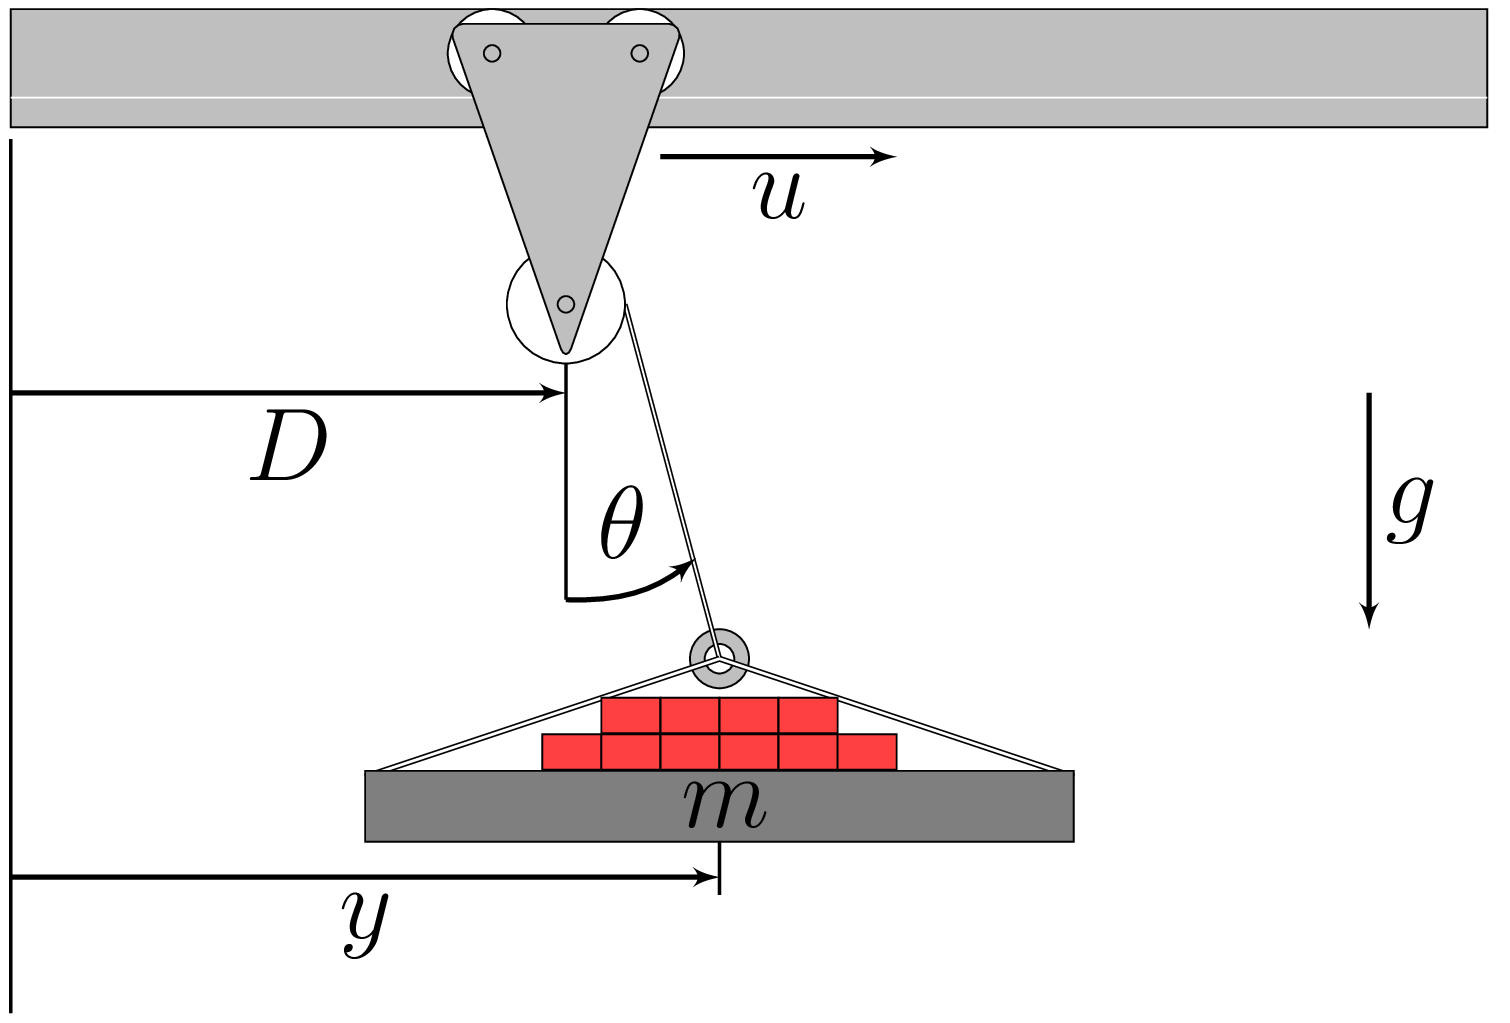
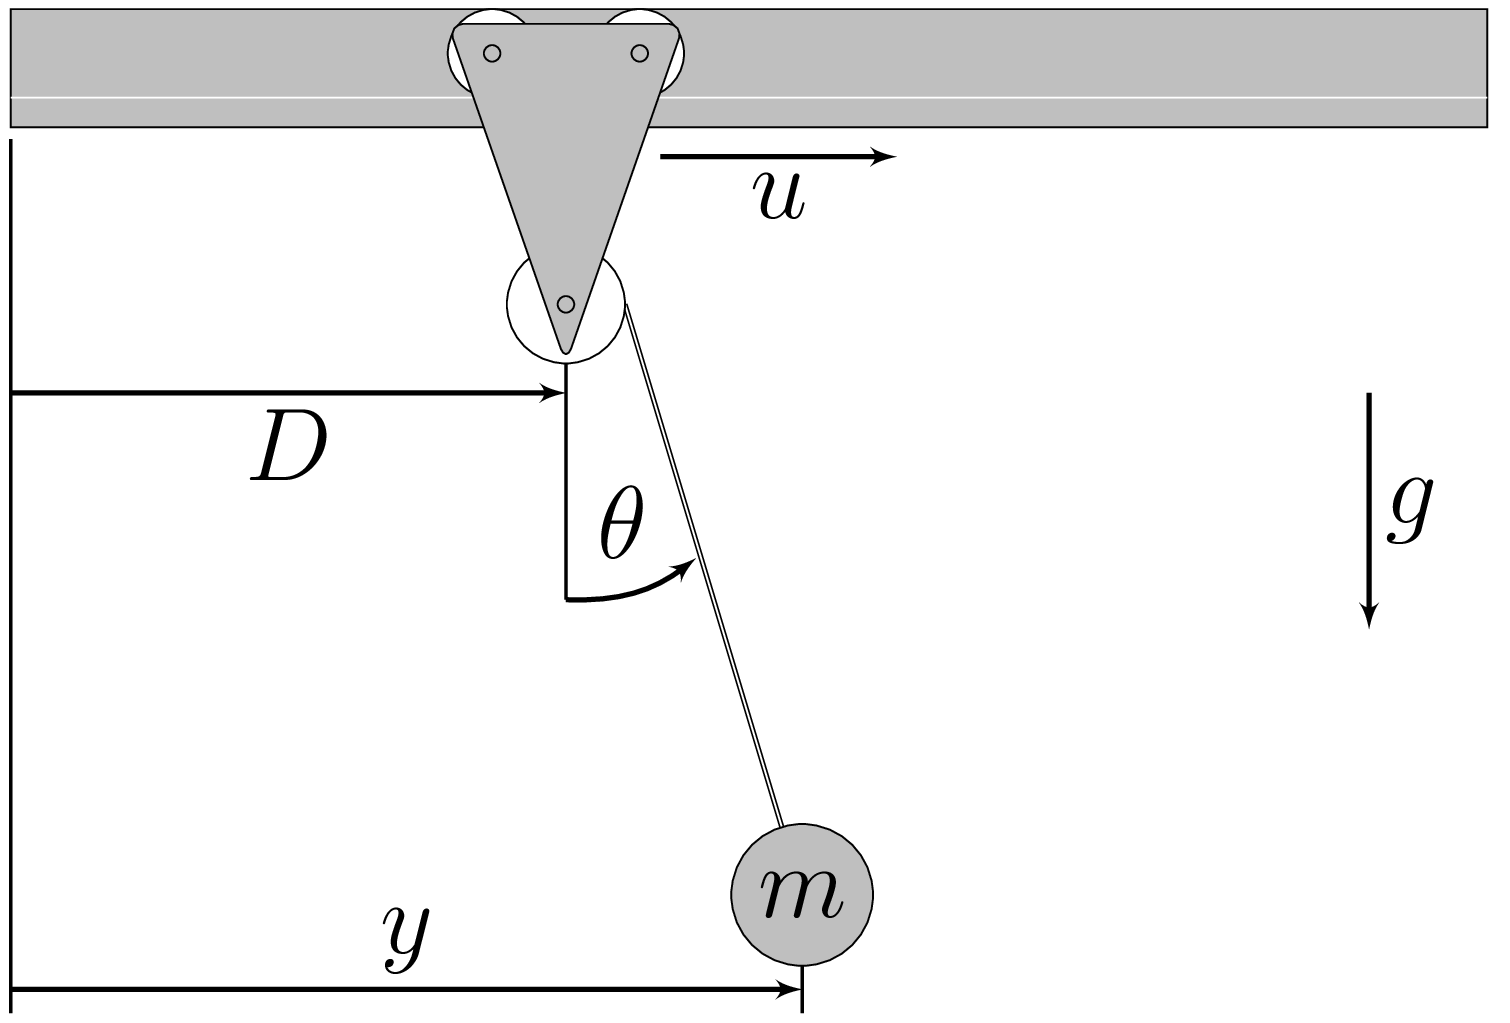
Add magnetic ball image and first implementation

Changed region(s): [[0.0, 0.5758, 0.7159, 0.9697], [0.4358, 0.4242, 0.4669, 0.5758], [0.4046, 0.303, 0.4358, 0.3939]]

diff --git a/tikz/data.tex b/tikz/data.tex
@@ -30,7 +30,87 @@
 \tikzstyle{coord} = [coordinate]
 \tikzstyle{pinstyle} = [pin edge={<-,thin,black,>=latex'}]
 
+\makeatletter
+\pgfdeclaredecoration{coilup}{coil}
+{
+  \state{coil}[switch if less than=%
+    1.5\pgfdecorationsegmentlength+%
+    \pgfdecorationsegmentaspect\pgfdecorationsegmentamplitude+%
+    \pgfdecorationsegmentaspect\pgfdecorationsegmentamplitude to last,
+               width=+\pgfdecorationsegmentlength]
+  {
+    \pgfpathcurveto
+    {\pgfpoint@oncoil{0    }{ 0.555}{1}}
+    {\pgfpoint@oncoil{0.445}{ 1    }{2}}
+    {\pgfpoint@oncoil{1    }{ 1    }{3}}
+    \pgfpathmoveto{\pgfpoint@oncoil{1    }{-1    }{9}}
+    \pgfpathcurveto
+    {\pgfpoint@oncoil{0.445}{-1    }{10}}
+    {\pgfpoint@oncoil{0    }{-0.555}{11}}
+    {\pgfpoint@oncoil{0    }{ 0    }{12}}
+  }
+  \state{last}[width=.5\pgfdecorationsegmentlength+%
+    \pgfdecorationsegmentaspect\pgfdecorationsegmentamplitude+%
+    \pgfdecorationsegmentaspect\pgfdecorationsegmentamplitude,next state=final]
+  {
+    \pgfpathcurveto
+    {\pgfpoint@oncoil{0    }{ 0.555}{1}}
+    {\pgfpoint@oncoil{0.445}{ 1    }{2}}
+    {\pgfpoint@oncoil{1    }{ 1    }{3}}
+    \pgfpathmoveto{\pgfpoint@oncoil{2    }{ 0    }{6}}
+  }
+  \state{final}
+  {
+  \pgfpathmoveto{\pgfpointdecoratedpathlast}
+  }
+}
+
+\pgfdeclaredecoration{coildown}{coil}
+{
+  \state{coil}[switch if less than=%
+    1.5\pgfdecorationsegmentlength+%
+    \pgfdecorationsegmentaspect\pgfdecorationsegmentamplitude+%
+    \pgfdecorationsegmentaspect\pgfdecorationsegmentamplitude to last,
+               width=+\pgfdecorationsegmentlength]
+  {
+    \pgfpathmoveto{\pgfpoint@oncoil{1    }{1    }{3}}
+    \pgfpathcurveto
+    {\pgfpoint@oncoil{1.555}{ 1    }{4}}
+    {\pgfpoint@oncoil{2    }{ 0.555}{5}}
+    {\pgfpoint@oncoil{2    }{ 0    }{6}}
+    \pgfpathcurveto
+    {\pgfpoint@oncoil{2    }{-0.555}{7}}
+    {\pgfpoint@oncoil{1.555}{-1    }{8}}
+    {\pgfpoint@oncoil{1    }{-1    }{9}}
+  }
+  \state{last}[width=.5\pgfdecorationsegmentlength+%
+    \pgfdecorationsegmentaspect\pgfdecorationsegmentamplitude+%
+    \pgfdecorationsegmentaspect\pgfdecorationsegmentamplitude,next state=final]
+  {
+    \pgfpathmoveto{\pgfpoint@oncoil{1    }{ 1    }{3}}
+    \pgfpathcurveto
+    {\pgfpoint@oncoil{1.555}{ 1    }{4}}
+    {\pgfpoint@oncoil{2    }{ 0.555}{5}}
+    {\pgfpoint@oncoil{2    }{ 0    }{6}}
+  }
+  \state{final}
+  {
+  \pgfpathlineto{\pgfpointdecoratedpathlast}
+  }
+}
+
+\def\pgfpoint@oncoil#1#2#3{%
+  \pgf@x=#1\pgfdecorationsegmentamplitude%
+  \pgf@x=\pgfdecorationsegmentaspect\pgf@x%
+  \pgf@y=#2\pgfdecorationsegmentamplitude%
+  \pgf@xa=0.083333333333\pgfdecorationsegmentlength%
+  \advance\pgf@x by#3\pgf@xa%
+}
+
+\makeatother
+
 \begin{document}
 	%\input{twomass.tex}
-	\input{crane.tex}
+	%\input{crane.tex}
+    \input{magBall.tex}
 \end{document}

diff --git a/tikz/crane.tex b/tikz/crane.tex
@@ -1,36 +1,24 @@
 \begin{tikzpicture}[auto, >=latex']
 
     \draw[black, thick] (12.5, 2) -- (12.5, 9.4);
-    \draw[black, thick] (18.5, 3.0) -- (18.5, 4);
+    \draw[black, thick] (19.2, 2.0) -- (19.2, 2.4);
     \draw[black, thick] (17.2, 5.5) -- (17.2, 7.5);
 
     \draw[fill=lightgray] (12.5,10.5) rectangle (25,9.5);
-    \draw[fill=lightgray, even odd rule] (18.5,5) circle (0.25) circle (0.125);
 
     \draw[color=white] (12.5,9.75) -- (25,9.75);
     % Kabel
-    \draw[double distance=0.4] (17.7,8) -- ++(0.8,-3);
-    \draw[double] (18.5,5) -- +(3,-1) (18.5,5) -- +(-3,-1);
+    \draw[double distance=0.4] (17.7,8) -- ++(1.3,-4.45);
     \draw[fill=white] (17.2,8) circle (0.5);
     \draw[fill=white] (17.825,10.125) circle (0.375) +(-1.25,0) circle (0.375);
     \draw[rounded corners, fill=lightgray] (17.2,7.5) -- (18.2,10.375) -- ++(-2,0) -- cycle;
     \draw (17.2,8) circle (0.07);
     \draw (17.825,10.125) circle (0.07) +(-1.25,0) circle (0.07);
     % last
-    \draw[fill=gray] (15.5,4.05) rectangle (21.5,3.45) node[pos=.5, xshift=-3ex, yshift=-2ex] {\Huge $m$};
-    \draw[fill=red!75] (17,4.06) rectangle +(0.5,0.3);
-    \draw[fill=red!75] (17.5,4.06) rectangle +(0.5,0.3);
-    \draw[fill=red!75] (18,4.06) rectangle +(0.5,0.3);
-    \draw[fill=red!75] (18.5,4.06) rectangle +(0.5,0.3);
-    \draw[fill=red!75] (19,4.06) rectangle +(0.5,0.3);
-    \draw[fill=red!75] (19.5,4.06) rectangle +(0.5,0.3);
-    \draw[fill=red!75] (17.5,4.37) rectangle +(0.5,0.3);
-    \draw[fill=red!75] (18,4.37) rectangle +(0.5,0.3);
-    \draw[fill=red!75] (18.5,4.37) rectangle +(0.5,0.3);
-    \draw[fill=red!75] (19,4.37) rectangle +(0.5,0.3);
+    \shade[ball color=black!50!white,opacity=0.20] (19.2, 3.) circle (0.6) node [opacity=1]{\Huge $m$};
 
     \draw[->, very thick] (17.2,5.5) to [bend right=20] node [above, xshift=-0.75ex,yshift=1ex] {\Huge $\theta$} (18.3,5.85);
-    \draw[->, very thick] (12.5, 3.15) -- node [below] {\Huge $y$} (18.5, 3.15);
+    \draw[->, very thick] (12.5, 2.2) -- node [above] {\Huge $y$} (19.2, 2.2);
     \draw[->, very thick] (12.5, 7.25) -- node [below] {\Huge $D$} (17.2, 7.25);
     \draw[->, very thick] (18, 9.25) -- node [below] {\Huge $u$} (20, 9.25);
     \draw[->, very thick] (24, 7.25) -- node [right] {\Huge $g$} (24, 5.25);

diff --git a/tikz/magBall.tex b/tikz/magBall.tex
@@ -1,0 +1,26 @@
+\begin{tikzpicture}[auto, >=latex']
+	\draw[decoration={aspect=0.3,segment length=3mm,amplitude=10mm,coilup,segment length=5pt},decorate,double=gray!90,double distance=3pt] (0,1.5) -- (0,5.3);
+	\node[cylinder,fill=gray!10,rotate=270,draw,minimum height=4.0cm,minimum width=1.8cm,anchor=east] at (0,1.4) (A) {};
+	\draw[densely dashed] (-0.9,5.27) arc (180:0:0.9cm and -0.13cm);
+	\draw[decoration={aspect=0.3,segment length=3mm,amplitude=10mm,coildown,segment length=5pt},decorate,double=gray!90,double distance=3pt] (0,1.5) -- (0,5.3);
+
+	\draw (-0.5,0) arc (180:360:0.5 and 0.5);
+    \draw[dashed] (-0.5,0) arc (180:0:0.5 and 0.5);
+    \draw (0,0.5) arc (90:270:0.5 and 0.5);
+    \draw[dashed] (0,0.5) arc (90:-90:0.5 and 0.5);
+    \draw (0,0) circle (0.5cm);
+    \shade[ball color=blue!10!white,opacity=0.60] (0,0) circle (0.5);
+    \draw[fill=black] (0,0) circle (0.025);
+
+	\draw[-*, thick] (0.9, 1.65) -- (1.5,1.65) -- (1.5, 3.75);
+    \draw[*->, thick] (1.5, 4) -- (1.5, 5.25) node [right] {$i$};
+    \draw[-, thick] (1.5, 4.5) -- (1.5, 5.75) -- (0,5.75) -- (0,5.3) ;
+    \draw[->, thick] (1.6, 3.5) to [bend left=-45] node [right] {$u$} (1.6, 4.25);
+
+    \draw[->, thick] (0, 0.5) -- (0, 1) node [right] {$F$};
+
+    \draw[->, thick] (1.5, -0.5) -- node [right] {$y$} (1.5, 0);
+    \draw[-, thick] (1.25,-0.5) -- (1.75, -0.5);
+    \draw[dashed] (0, 0) -- (1.5, 0);
+
+\end{tikzpicture}

diff --git a/magnetlager/model.py b/magnetlager/model.py
@@ -1,0 +1,11 @@
+# -*- coding: utf-8 -*-
+import numpy as np
+
+def nonlinSys(t, x, u, params):
+    k, m, s0, g = params
+
+    dx = np.zeros(2)
+    dx[0] = x[1]
+    dx[1] = k / m * u(t) ** 2 / (x[0] - s0) ** 2 - g
+
+    return dx

diff --git a/magnetlager/params.py b/magnetlager/params.py
@@ -1,0 +1,7 @@
+# -*- coding: utf-8 -*-
+
+g = 9.81    # m/s2
+m = 6.8     # kg
+s0 = 4.4e-4 # m
+k = 6.8     # kg
+
